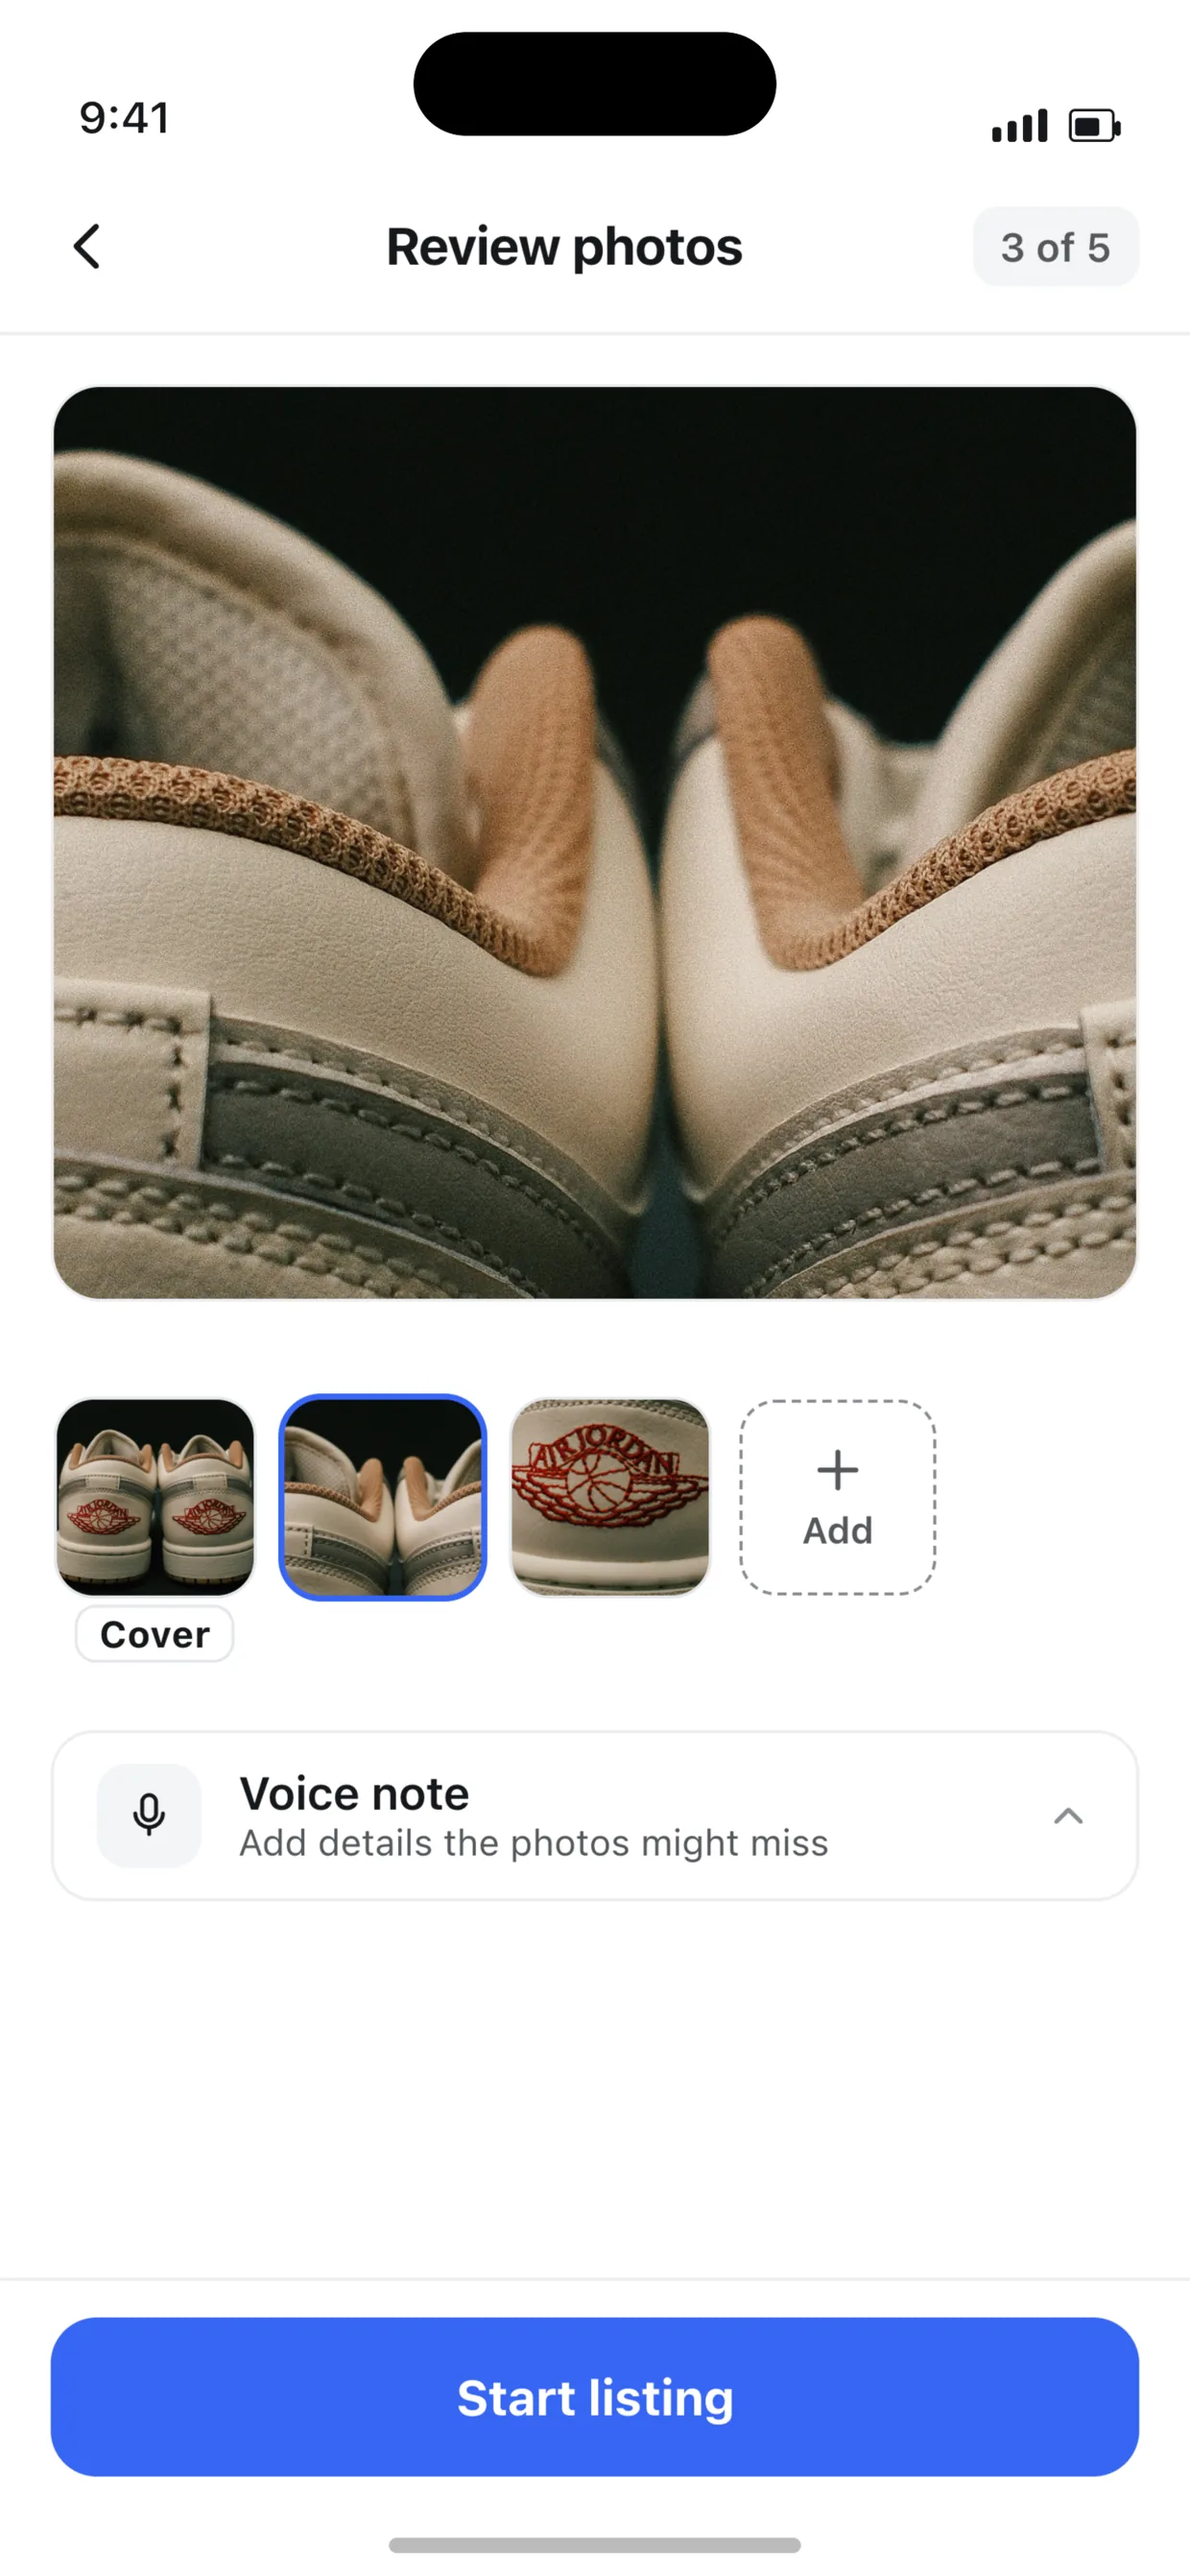
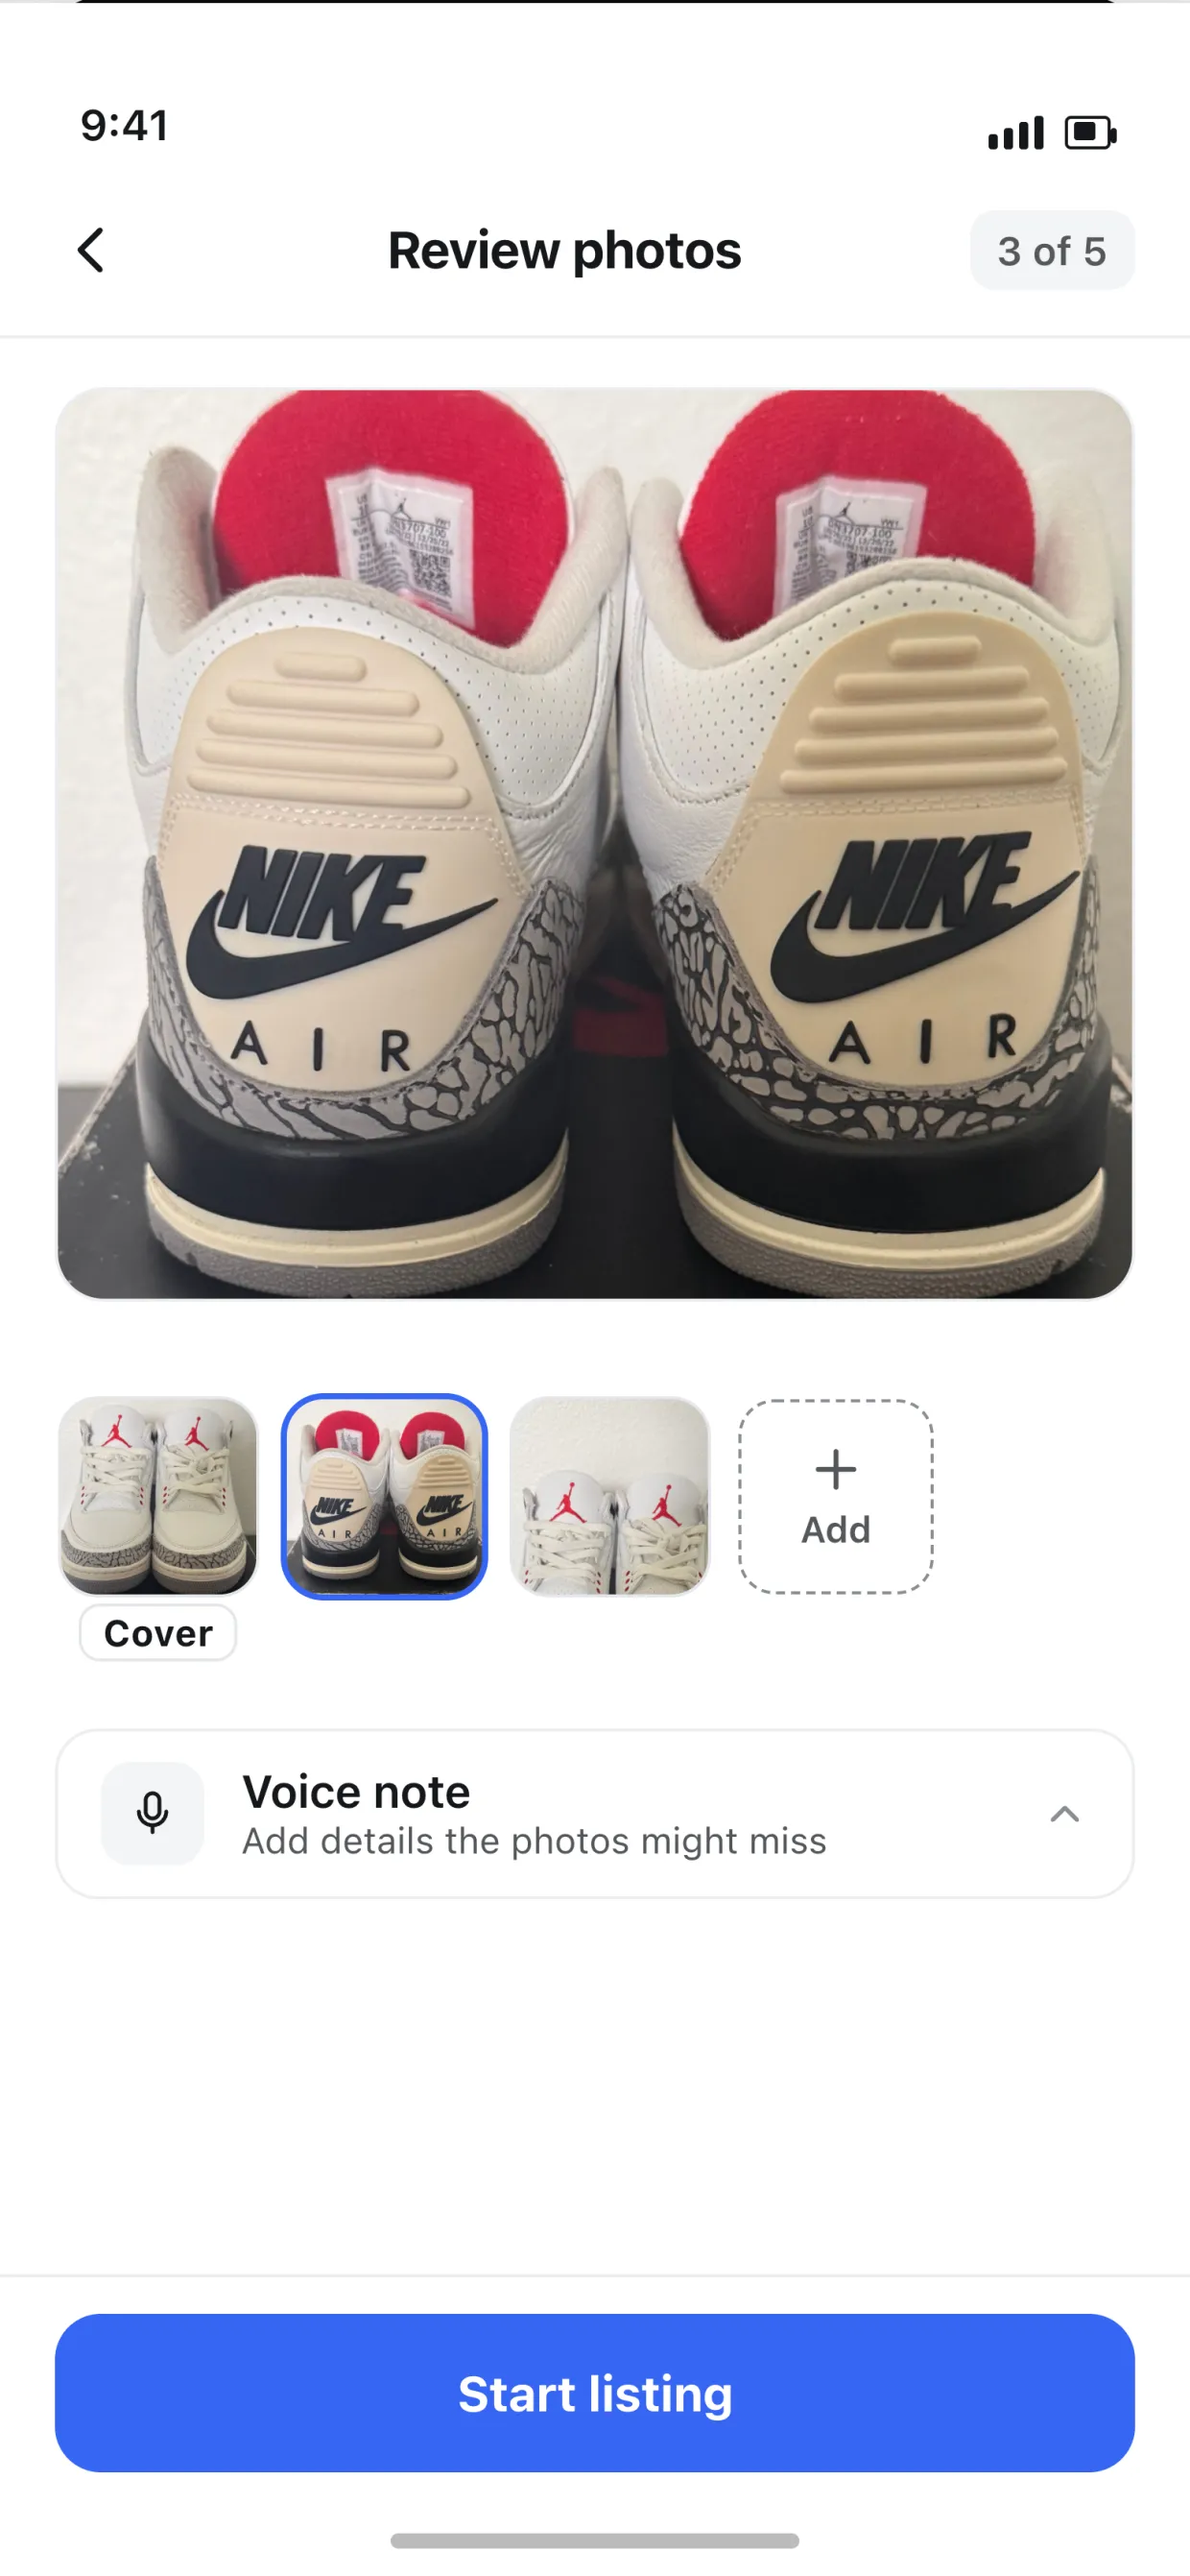
feat(marketing): put Aziz's own Air Jordan 3 in the feature explorer
The fixture item in the explorer screens was a licensed studio Air Jordan 1
Low on a dark seamless, cropped five ways. Aziz photographed his own pair, so
Photo Review, Listing Review and the Trophy Wall tile now show his Air Jordan 3
Retro, Summit White / Fire Red / Black, US 10, style DN3707-100, on its box.
Every one of those facts is readable on the box label in the source photograph,
so the listing copy in the canvases describes the shoe rather than recalling it.

Listing Review's three photos are cut to about 1.5:1 rather than square. Its
photo band is that shape and `cover` on a square keeps only the middle two
thirds, which turned a head-on pair shot into two toe boxes with the Jumpman
sliced off the top.

Scan is deliberately unchanged. It paints a white 9:41, a white flash glyph,
white framing brackets and a white shutter ring straight onto the viewfinder
image, and the approved v4 Scan package bans a shelf, panel, scrim or grounding
gradient, so the photograph is the only thing holding that chrome up. The old
plate's top band measures a mean luminance of 19; the wall behind his shoes
measures 211 to 221. Burning a gradient into the plate to fix that would depict
a screen the app does not render.

The sold matches stay licensed Air Jordan 1 photographs, still titled as Air
Jordan 1s. They are other sellers' listings, so they are meant to be other
photographs, but an Air Jordan 1 comp set under an Air Jordan 3 is a loose
[…]

diff --git a/docs/design/marketing-screens-provenance.md b/docs/design/marketing-screens-provenance.md
@@ -10,8 +10,8 @@ of it from the binaries.
 
 | File | Section | Content |
 | --- | --- | --- |
-| `screens/scan.webp` | Scan | camera view framing an Air Jordan 3 |
-| `screens/photo-review.webp` | Photo Review | three-photo strip for the same shoe, a Cover marker, an Add tile, and the voice note row in its empty state |
+| `screens/scan.webp` | Scan | camera view framing a licensed studio Air Jordan 1 Low. This is the one screen whose item is not Aziz's own, and the reason is in "Whose shoes these are" below |
+| `screens/photo-review.webp` | Photo Review | three-photo strip of Aziz's Air Jordan 3, a Cover marker, an Add tile, and the voice note row in its empty state |
 | `screens/listing-review.webp` | Listing Review | title, condition, price recommendation, sold matches |
 | `screens/publish.webp` | Publish | assisted export and share, second-half publish screen |
 | `screens/trophy-wall.webp` | Trophy Wall | chronological item states |
@@ -100,6 +100,37 @@ change to that script stops reproducing them, the script is what drifted.
 The sweep line is the one element in the hero that is not app interface. It is a marketing device.
 It belongs to this page and must not be carried into an App Store panel, where it would read as a
 claim about a screen the app renders.
+
+## Whose shoes these are
+
+The fixture item used to be a licensed studio photograph of an Air Jordan 1 Low on a dark seamless,
+cropped five ways. Aziz photographed his own pair on an iPhone 16 Pro, so Photo Review, Listing
+Review and the Trophy Wall tile now show his Air Jordan 3 Retro, Summit White / Fire Red / Black,
+US 10, style DN3707-100, on its box. Every one of those facts is legible on the box label in
+`IMG_9832`, so the listing copy in the canvases is describable from the photographs rather than
+recalled.
+
+Sources live in `snaplist-appstore/source/fx/aziz/`. `scripts/aziz-jordan-crops.mjs` in that repo
+holds the crop rects and regenerates every derived file. Two traps are recorded there: all four
+originals carry EXIF orientation 6 and must be `.rotate()`d before any extract, and Listing Review
+paints its photos into a band about 1.5:1, so its three files are cut to that aspect rather than
+square. A square pair shot survived `cover` in that band as two toe boxes with the Jumpman sliced
+off the top.
+
+**Scan keeps the licensed studio photograph, and this is not an oversight.** Scan paints a white
+9:41, a white flash glyph, white framing brackets and a white shutter ring directly onto the
+viewfinder image, and the approved v4 Scan package bans a shelf, panel, scrim, or grounding
+gradient, so the photograph is the only thing holding that chrome up. The old plate's top band
+measures a mean luminance of 19. The wall behind Aziz's shoes measures 211 to 221. Burning a
+gradient into the plate to fix that would depict a screen the app does not render, which is the
+same class of problem guideline 2.3.3 covers. Scan changes when there is a photograph of his shoes
+shot against something dark, not before.
+
+The sold matches beside the price are still licensed Air Jordan 1 photographs, correctly titled as
+Air Jordan 1s. They are other sellers' listings, so they are supposed to be other photographs, but
+a set of Air Jordan 1 comps under an Air Jordan 3 is a loose match set. Tightening it needs three
+licensed Air Jordan 3 photographs, which is a spend decision, so it is recorded here rather than
+guessed at.
 
 ## Known honesty gap
 
